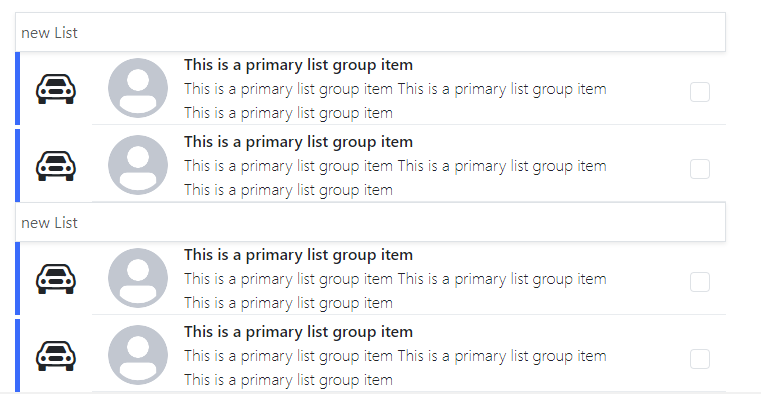
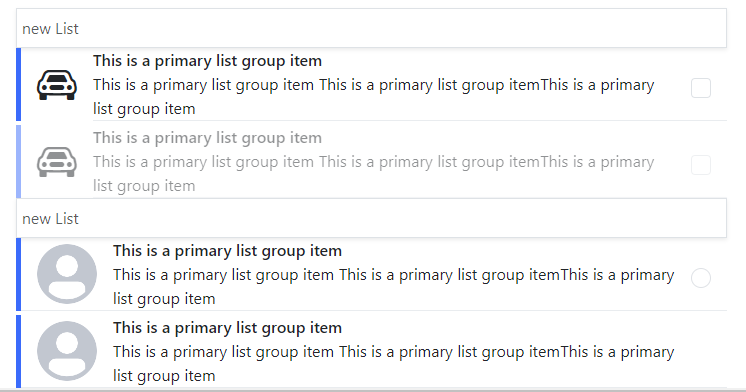
feat:(dynamic action)

diff --git a/src/App.vue b/src/App.vue
@@ -41,17 +41,12 @@
         <v-list-group :item="item">
           <template #list-item="{ item }">
             <v-list-item :item="item">
-              <template #avatar="{ item }">
-                <img class="rounded-circle" width="100%" :src="item.avatar" />
-              </template>
-              <template #description="{ item }">
-                <p class="m-0 fs-6 fw-lighter">{{ item.description }}</p>
-              </template>
-              <template #sub-description="{ item }">
-                <p class="m-0 fs-6 fw-lighter">{{ item.sub_description }}</p>
-              </template>
-              <template #action>
-                <v-checkbox></v-checkbox>
+              <template #action="{ item }">
+                <component
+                  v-if="item?.action_type"
+                  :item="item"
+                  :is="listItemActions[item?.action_type]"
+                ></component>
               </template>
             </v-list-item>
           </template>
@@ -63,8 +58,9 @@
 <script setup lang="ts">
 import data1 from "./assets/MOCK_DATA(1).json";
 import listGroup from "./assets/MOCK_DATA_LIST_VIEW.json";
+import { ListItemAction } from "./meta/list-item-action";
 import { schema1 } from "./schema/table-schema";
-import { defineAsyncComponent, ref, watch } from "vue";
+import { ComponentOptionsMixin, defineAsyncComponent, ref, watch } from "vue";
 
 const currentPage = ref(1);
 const searchValue = ref("");
@@ -101,6 +97,9 @@ const VTableHeader = defineAsyncComponent(
 const VCheckbox = defineAsyncComponent(
   () => import("./components/v-checkbox/v-checkbox.vue")
 );
+const VRadio = defineAsyncComponent(
+  () => import("./components/v-radio/v-radio.vue")
+);
 const VIconButton = defineAsyncComponent(
   () => import("./components/v-icon-button/v-icon-button.vue")
 );
@@ -116,4 +115,8 @@ const VListGroup = defineAsyncComponent(
 const VListView = defineAsyncComponent(
   () => import("./components/v-list-view/v-list-view.vue")
 );
+const listItemActions: { [key: string]: ComponentOptionsMixin } = {
+  [ListItemAction.VCheckbox]: VCheckbox,
+  [ListItemAction.VCRadio]: VRadio,
+};
 </script>

diff --git a/src/components/v-list-item/v-list-item.vue b/src/components/v-list-item/v-list-item.vue
@@ -26,12 +26,18 @@
         class="mx-3"
         style="max-width: 60px; max-height: 60px"
       >
-        <slot name="avatar" :item="props?.item"> </slot>
+        <slot name="avatar" :item="props?.item">
+          <img class="rounded-circle" width="100%" :src="props.item.avatar" />
+        </slot>
       </div>
       <div class="flex-fill">
         <p class="m-0 fw-semibold">{{ props?.item?.title }}</p>
-        <slot name="description" :item="props?.item"> </slot>
-        <slot name="sub-description" :item="props?.item"> </slot>
+        <slot name="description" :item="props?.item"
+          >{{ props.item.description }}
+        </slot>
+        <slot name="sub-description" :item="props?.item">
+          {{ props.item.sub_description }}</slot
+        >
       </div>
 
       <div
@@ -39,7 +45,8 @@
         class="rounded-circle mx-3"
         style="width: 20px; height: 20px"
       >
-        <slot name="action" :item="props?.item"> </slot>
+        <slot name="action" :item="props?.item"
+        </slot>
       </div>
     </div>
   </div>

diff --git a/src/components/v-radio/v-radio.vue b/src/components/v-radio/v-radio.vue
@@ -1,0 +1,14 @@
+<template>
+  <input
+    class="form-check-input"
+    type="radio"
+    style="cursor: pointer; width: 20px; height: 20px"
+  />
+</template>
+<script setup lang="ts">
+import { defineProps } from "vue";
+
+const props = defineProps<{
+  item?: any;
+}>();
+</script>

diff --git a/src/meta/i-list-item.ts b/src/meta/i-list-item.ts
@@ -1,3 +1,4 @@
+
 export interface IListItem {
   title: string;
   action?: boolean;
@@ -7,4 +8,5 @@ export interface IListItem {
   sub_description?: string;
   icon?: string;
   disabled?: boolean;
+  action_type?: number;
 }

diff --git a/src/meta/list-item-action.ts b/src/meta/list-item-action.ts
@@ -1,0 +1,4 @@
+export enum ListItemAction {
+  VCheckbox = 1,
+  VCRadio = 2,
+}
